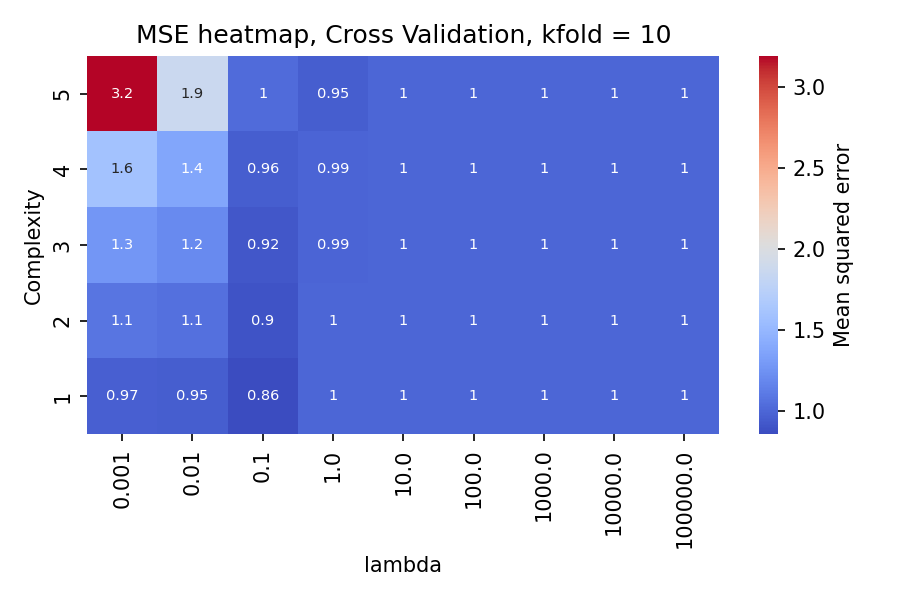
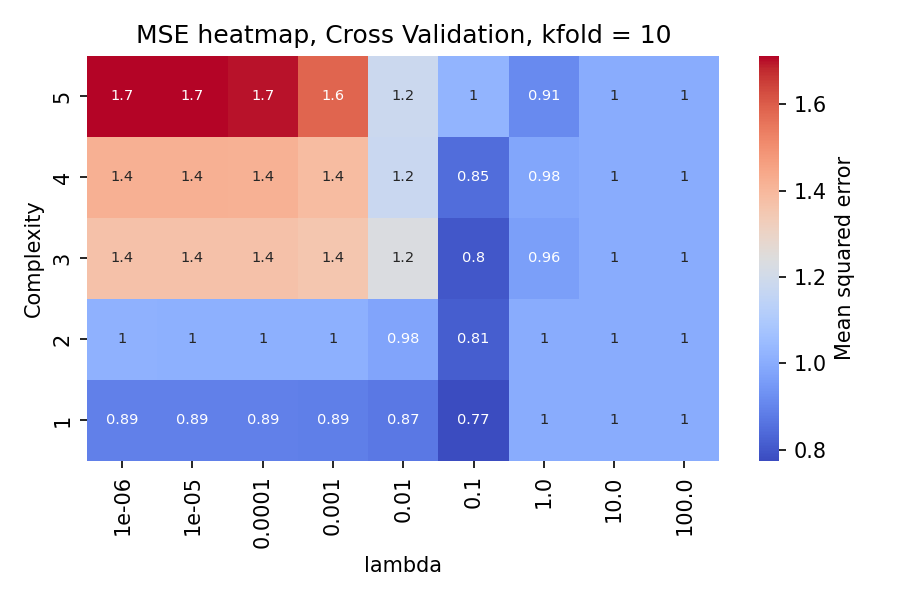
Updates

diff --git a/Project1/10_Terrain.py b/Project1/10_Terrain.py
@@ -8,21 +8,20 @@ Created on Sat Oct  1 20:54:30 2022
 #%%
 import matplotlib.pyplot as plt
 import numpy as np
-from sklearn.model_selection import train_test_split, KFold, cross_val_score
+from sklearn.model_selection import KFold
 #from sklearn.preprocessing import StandardScaler
-from Functions import FrankeFunction, R2, MSE, DesignMatrix, LinReg, RidgeReg, LassoReg, ScaleData
+from Functions import MSE, DesignMatrix, LinReg, RidgeReg, LassoReg
 from imageio import imread
-from mpl_toolkits.mplot3d import Axes3D
 from matplotlib import cm
-from numpy.random import normal, uniform
 from sklearn.preprocessing import StandardScaler, PolynomialFeatures
-from sklearn.linear_model import LinearRegression
+from sklearn.linear_model import Lasso
 import seaborn as sb
+from matplotlib.ticker import LinearLocator, FormatStrFormatter
 
 
 #%%
 # Load the terrain
-terrain = imread('data/SRTM_data_Norway_2.tif')
+terrain = imread('data/SRTM_data_Norway_1.tif')
 
 # Show the terrain
 plt.figure()
@@ -54,9 +53,40 @@ plt.xlabel('X')
 plt.ylabel('Y')
 plt.savefig("plots/Terrain/Map_v02.png",dpi=150)
 plt.show()
+
+#%%
+#Plot 3D
+x = np.linspace(0,1, np.shape(terrain)[0])
+y = np.linspace(0,1, np.shape(terrain)[1])
+z=terrain
+
+fig = plt.figure()
+ax = fig.gca(projection='3d')
+
+x, y = np.meshgrid(x,y)
+#z=np.reshape(terrain,x)
+
+# Plot the surface without noise
+surf = ax.plot_surface(x, y, z, cmap=cm.coolwarm,
+                       linewidth=0, antialiased=False)
+# Customize the z axis.
+ax.set_zlim(-0.10, 1.40)
+ax.zaxis.set_major_locator(LinearLocator(10))
+ax.zaxis.set_major_formatter(FormatStrFormatter('%.02f'))
+ax.set_zticks([0, 500, 1000, 1500])
+ax.axes.xaxis.set_ticklabels([])
+ax.axes.yaxis.set_ticklabels([])
+ax.axes.axis.set_ticklabels([])
+# Add a color bar which maps values to colors.
+fig.colorbar(surf, shrink=0.5, aspect=5)
+plt.savefig("plots/Terrain/Map_3D.png", dpi=150)
+plt.show()
+
 #%% Cross validation in OLS
 
 #Scale the data
+x = np.linspace(0,1, np.shape(terrain)[0])
+y = np.linspace(0,1, np.shape(terrain)[1])
 x = x.reshape(n,1)
 y = y.reshape(n,1)
 
@@ -128,6 +158,55 @@ plt.title('K-fold Cross Validation, k = 5, OLS')
 plt.show()
 
 
+
+#%% Make some more OLS plots
+#For complexity=5
+x = np.linspace(0,1, np.shape(terrain)[0])
+y = np.linspace(0,1, np.shape(terrain)[1])
+z=terrain
+
+X1 = DesignMatrix(x,y,4)
+OLSbeta1 = np.linalg.pinv(X1.T @ X1) @ X1.T @ z
+ytilde1 = X1 @ OLSbeta1
+
+# Show the terrain
+plt.figure()
+plt.title('Terrain over Norway, OLS')
+plt.imshow(ytilde1, cmap='viridis')
+plt.xlabel('X')
+plt.ylabel('Y')
+plt.savefig("plots/Terrain/Map_v03_OLS_pol4.png",dpi=150)
+plt.show()
+
+
+
+
+#Plot 3D
+x = np.linspace(0,1, np.shape(terrain)[0])
+y = np.linspace(0,1, np.shape(terrain)[1])
+
+fig = plt.figure()
+ax = fig.gca(projection='3d')
+
+x, y = np.meshgrid(x,y)
+#z=np.reshape(terrain,x)
+
+# Plot the surface without noise
+surf = ax.plot_surface(x, y, ytilde1, cmap=cm.coolwarm,
+                       linewidth=0, antialiased=False)
+# Customize the z axis.
+ax.set_zlim(-0.10, 1.40)
+ax.zaxis.set_major_locator(LinearLocator(10))
+ax.zaxis.set_major_formatter(FormatStrFormatter('%.02f'))
+ax.set_zticks([0, 500, 1000, 1500])
+ax.axes.xaxis.set_ticklabels([])
+ax.axes.yaxis.set_ticklabels([])
+ax.axes.zaxis.set_ticklabels([])
+# Add a color bar which maps values to colors.
+fig.colorbar(surf, shrink=0.5, aspect=5)
+plt.savefig("plots/Terrain/Map_3d_OLS_pol4.png", dpi=150)
+plt.show()
+
 #%%
 # CV in Ridge
 
@@ -179,7 +258,7 @@ for l in range(nlambdas):
 
 plt.xlabel('Model complexity')    
 plt.xticks(np.arange(1, len(polydegree)+1, step=1))  # Set label locations.
-plt.ylabel('log10(MSE)')
+plt.ylabel('MSE')
 plt.title('MSE Ridge regression for different lambdas (kfold=10)')
 
 # Add a legend
@@ -200,13 +279,70 @@ plt.tight_layout()
 plt.savefig("plots/Terrain/CV_Ridge_heatmap.png",dpi=150)
 plt.show()
 
+#%%
+#Make some more Ridge plots
+#For complexity=1, lambda=10^3 (MSE_train=0.82)
+x = np.linspace(0,1, np.shape(terrain)[0])
+y = np.linspace(0,1, np.shape(terrain)[1])
+z=terrain
+
+
+deg=5
+lmb=10
+
+X1 = DesignMatrix(x,y,deg)
+Ridgebeta1 = np.linalg.pinv(X1.T @ X1 + lmb*np.identity(X1.shape[1])) @ X1.T @ z
+ytilde2 = X1 @ Ridgebeta1
+
+
+
+# Show the terrain
+plt.figure()
+plt.title('Terrain over Norway, Ridge')
+plt.imshow(ytilde2, cmap='viridis')
+plt.xlabel('X')
+plt.ylabel('Y')
+plt.savefig("plots/Terrain/Map_v04_Ridge_pol5_lmb10.png",dpi=150)
+plt.show()
+
+
+
+
+#Plot 3D
+x = np.linspace(0,1, np.shape(terrain)[0])
+y = np.linspace(0,1, np.shape(terrain)[1])
+
+fig = plt.figure()
+ax = fig.gca(projection='3d')
+
+x, y = np.meshgrid(x,y)
+#z=np.reshape(terrain,x)
+
+# Plot the surface without noise
+surf = ax.plot_surface(x, y, ytilde2, cmap=cm.coolwarm,
+                       linewidth=0, antialiased=False)
+# Customize the z axis.
+ax.set_zlim(-0.10, 1.40)
+ax.zaxis.set_major_locator(LinearLocator(10))
+ax.zaxis.set_major_formatter(FormatStrFormatter('%.02f'))
+ax.set_zticks([0, 500,1000,1500])
+ax.axes.xaxis.set_ticklabels([])
+ax.axes.yaxis.set_ticklabels([])
+ax.axes.zaxis.set_ticklabels([])
+# Add a color bar which maps values to colors.
+fig.colorbar(surf, shrink=0.5, aspect=5)
+plt.savefig("plots/Terrain/Map_3d_Ridge_pol5_lmb10.png", dpi=150)
+plt.show()
+
+
+
 
 #%%
 #CV in Lasso
 
 #set up the hyper-parameters to investigate
 nlambdas = 9
-lambdas = np.logspace(-3, 5, nlambdas)
+lambdas = np.logspace(-6, 2, nlambdas)
 
 #Initialize before looping:
 polydegree = np.zeros(maxdegree)
@@ -270,4 +406,58 @@ heatmap.set_xlabel("lambda")
 heatmap.set_title("MSE heatmap, Cross Validation, kfold = {:}".format(k))
 plt.tight_layout()
 plt.savefig("plots/Terrain/CV_Lasso_heatmap.png",dpi=150)
+plt.show()
+
+#%%
+#Make some more Lasso plots
+#For complexity=4, lambda=10^-1 (MSE_train=0.82)
+x = np.linspace(0,1, np.shape(terrain)[0])
+y = np.linspace(0,1, np.shape(terrain)[1])
+z=terrain
+
+
+deg=4
+lmb=0.1
+
+X1 = DesignMatrix(x,y,deg)
+modelLasso = Lasso(lmb,fit_intercept=False)
+modelLasso.fit(X1,z)
+ytilde3 = modelLasso.predict(X1)
+
+# Show the terrain
+plt.figure()
+plt.title('Terrain over Norway, Lasso')
+plt.imshow(ytilde3, cmap='viridis')
+plt.xlabel('X')
+plt.ylabel('Y')
+plt.savefig("plots/Terrain/Map_v05_Lasso_pol4_lmb0_1.png",dpi=150)
+plt.show()
+
+
+
+
+#Plot 3D
+x = np.linspace(0,1, np.shape(terrain)[0])
+y = np.linspace(0,1, np.shape(terrain)[1])
+
+fig = plt.figure()
+ax = fig.gca(projection='3d')
+
+x, y = np.meshgrid(x,y)
+#z=np.reshape(terrain,x)
+
+# Plot the surface without noise
+surf = ax.plot_surface(x, y, ytilde3, cmap=cm.coolwarm,
+                       linewidth=0, antialiased=False)
+# Customize the z axis.
+ax.set_zlim(-0.10, 1.40)
+ax.zaxis.set_major_locator(LinearLocator(10))
+ax.zaxis.set_major_formatter(FormatStrFormatter('%.02f'))
+ax.set_zticks([0, 500, 1000, 1500])
+ax.axes.xaxis.set_ticklabels([])
+ax.axes.yaxis.set_ticklabels([])
+ax.axes.zaxis.set_ticklabels([])
+# Add a color bar which maps values to colors.
+fig.colorbar(surf, shrink=0.5, aspect=5)
+plt.savefig("plots/Terrain/Map_3d_Lasso_pol4_lmb0_1.png", dpi=150)
 plt.show()
